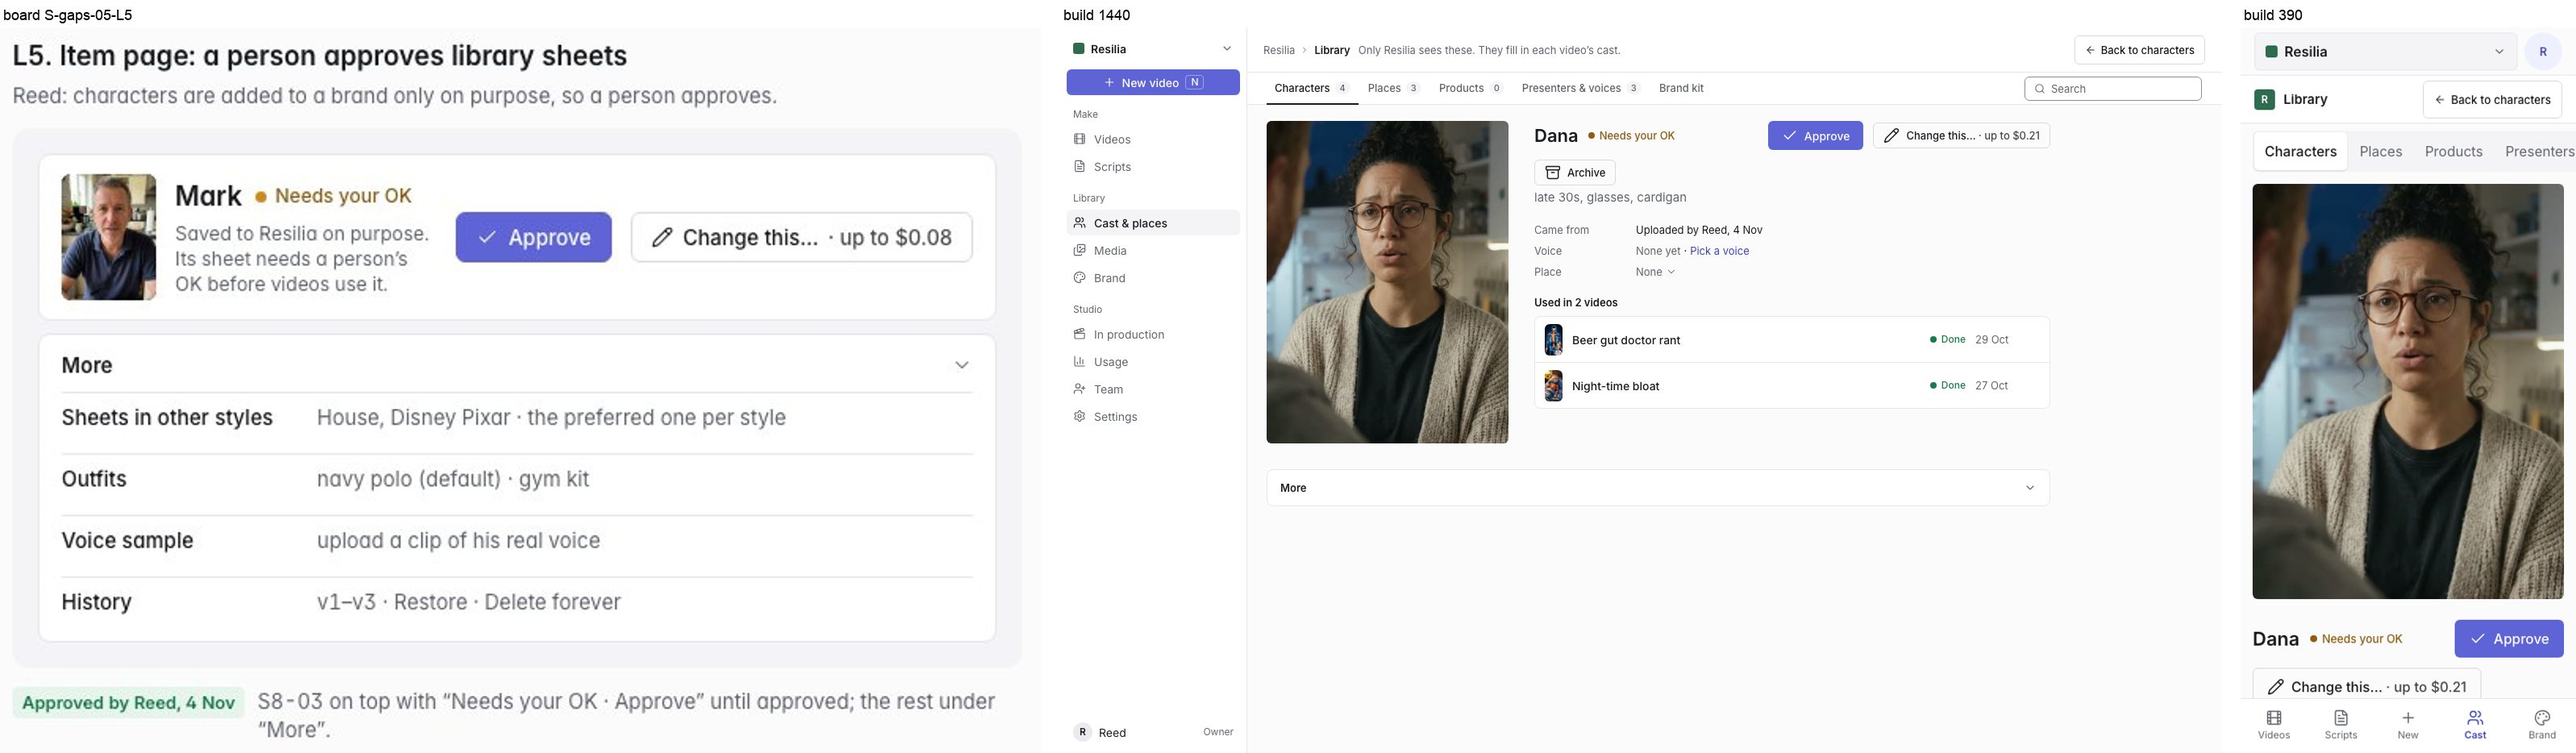
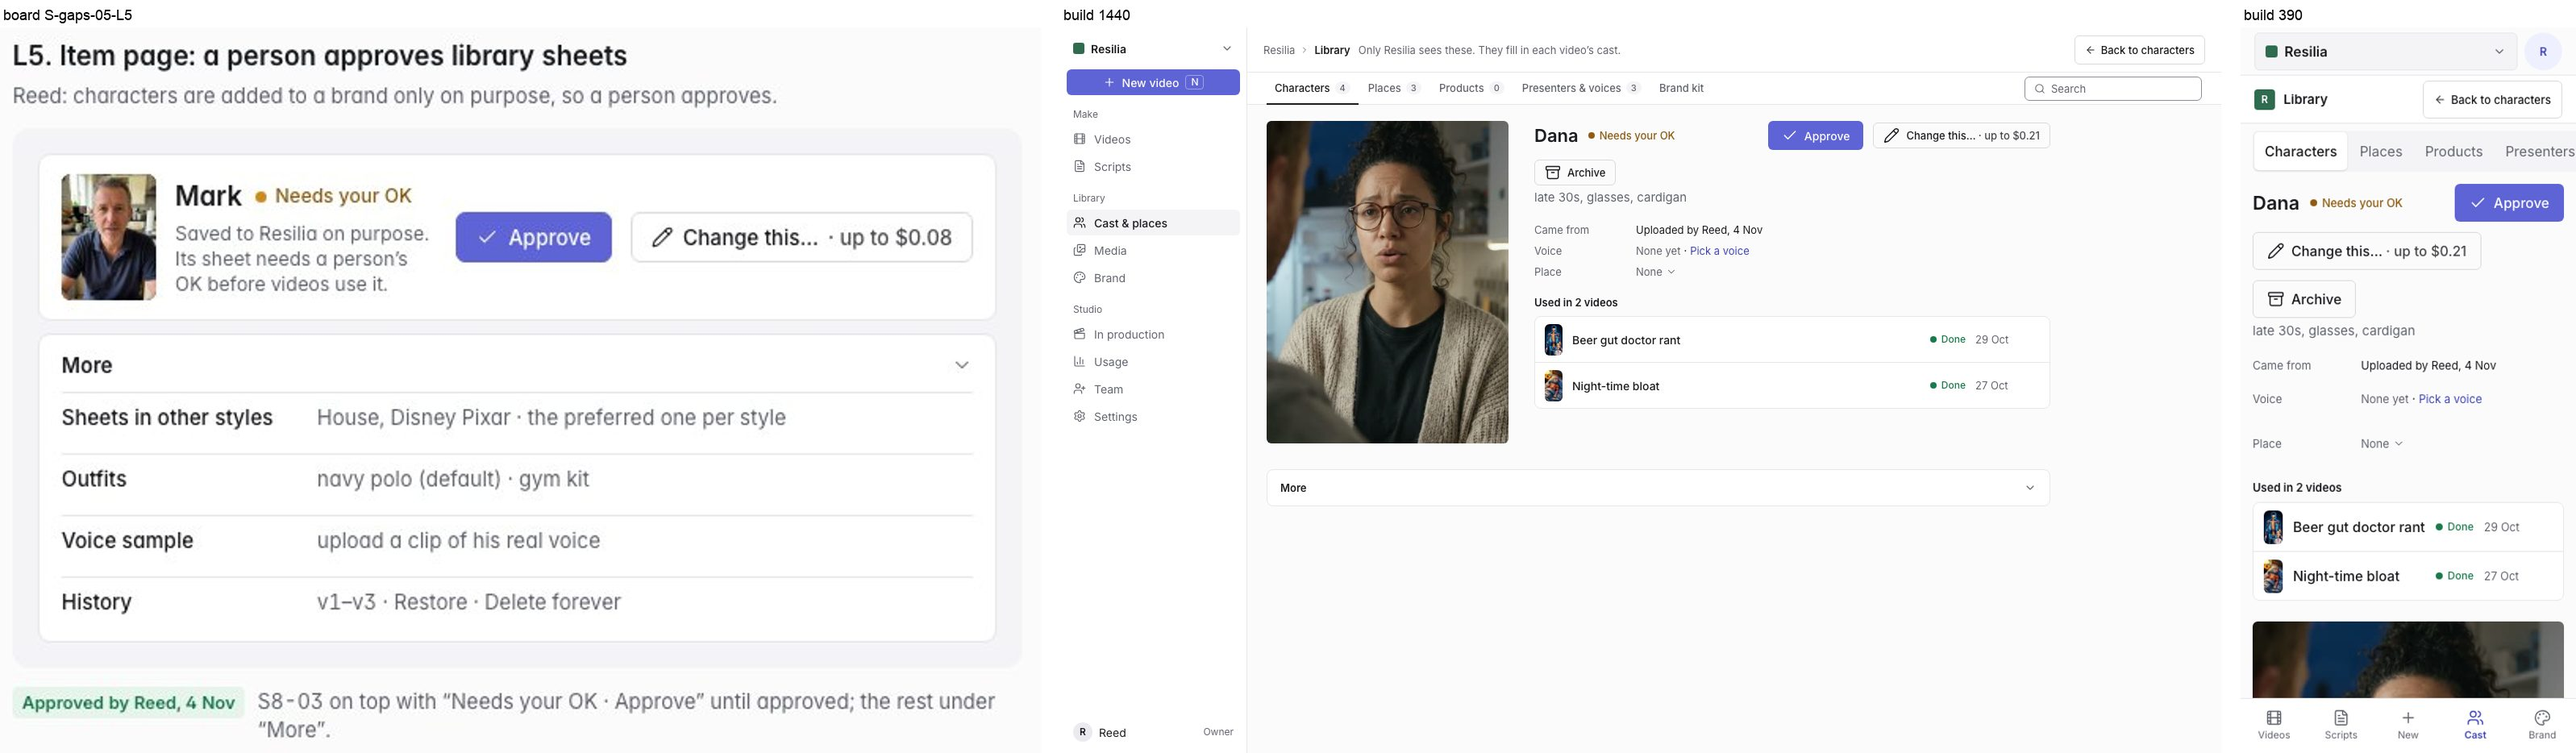
Item page on a phone: the name and its presses first, the picture after; facts line up; pairs refreshed

Changed region(s): [[0.8676, 0.2173, 1.0, 0.9315]]

diff --git a/web/src/library/ItemPage.tsx b/web/src/library/ItemPage.tsx
@@ -146,7 +146,8 @@ function Page({ item, slug, brandId }: { item: Item; slug: KindSlug; brandId: nu
   return (
     <div className="flex flex-col gap-8">
       <div className="flex flex-col gap-6 lg:flex-row lg:items-start lg:gap-8">
-        <div className="flex flex-col gap-3">
+        {/* On a phone the name, its presses and facts come first, the picture after (QA-3 on #1204). */}
+        <div className="order-2 flex flex-col gap-3 lg:order-1">
           <Picture id={big} alt={item.name} className={rail ? "h-[400px] w-[300px]" : "aspect-[3/4] w-full"} />
           {(old.length > 0 || product) && (
             <div className="flex flex-wrap gap-2">
@@ -185,7 +186,7 @@ function Page({ item, slug, brandId }: { item: Item; slug: KindSlug; brandId: nu
             </Button>
           )}
         </div>
-        <div className="flex min-w-0 max-w-[640px] grow flex-col gap-5">
+        <div className="order-1 flex min-w-0 max-w-[640px] grow flex-col gap-5 lg:order-2">
           <div className="flex flex-col gap-1">
             <div className="flex flex-wrap items-center gap-3">
               <h1 className="text-2xl font-semibold">{item.name}</h1>
@@ -272,7 +273,7 @@ function Facts({ item, brandId }: { item: Item; brandId: number }) {
     rows.push(["Rules", item.notes || <span className="text-muted">None</span>]);
   }
   return (
-    <dl className="grid grid-cols-[110px_minmax(0,1fr)] gap-x-4 gap-y-2 text-sm">
+    <dl className="grid grid-cols-[110px_minmax(0,1fr)] items-center gap-x-4 gap-y-2 text-sm">
       {rows.map(([k, v]) => (
         <div key={k} className="contents">
           <dt className="text-muted">{k}</dt>
